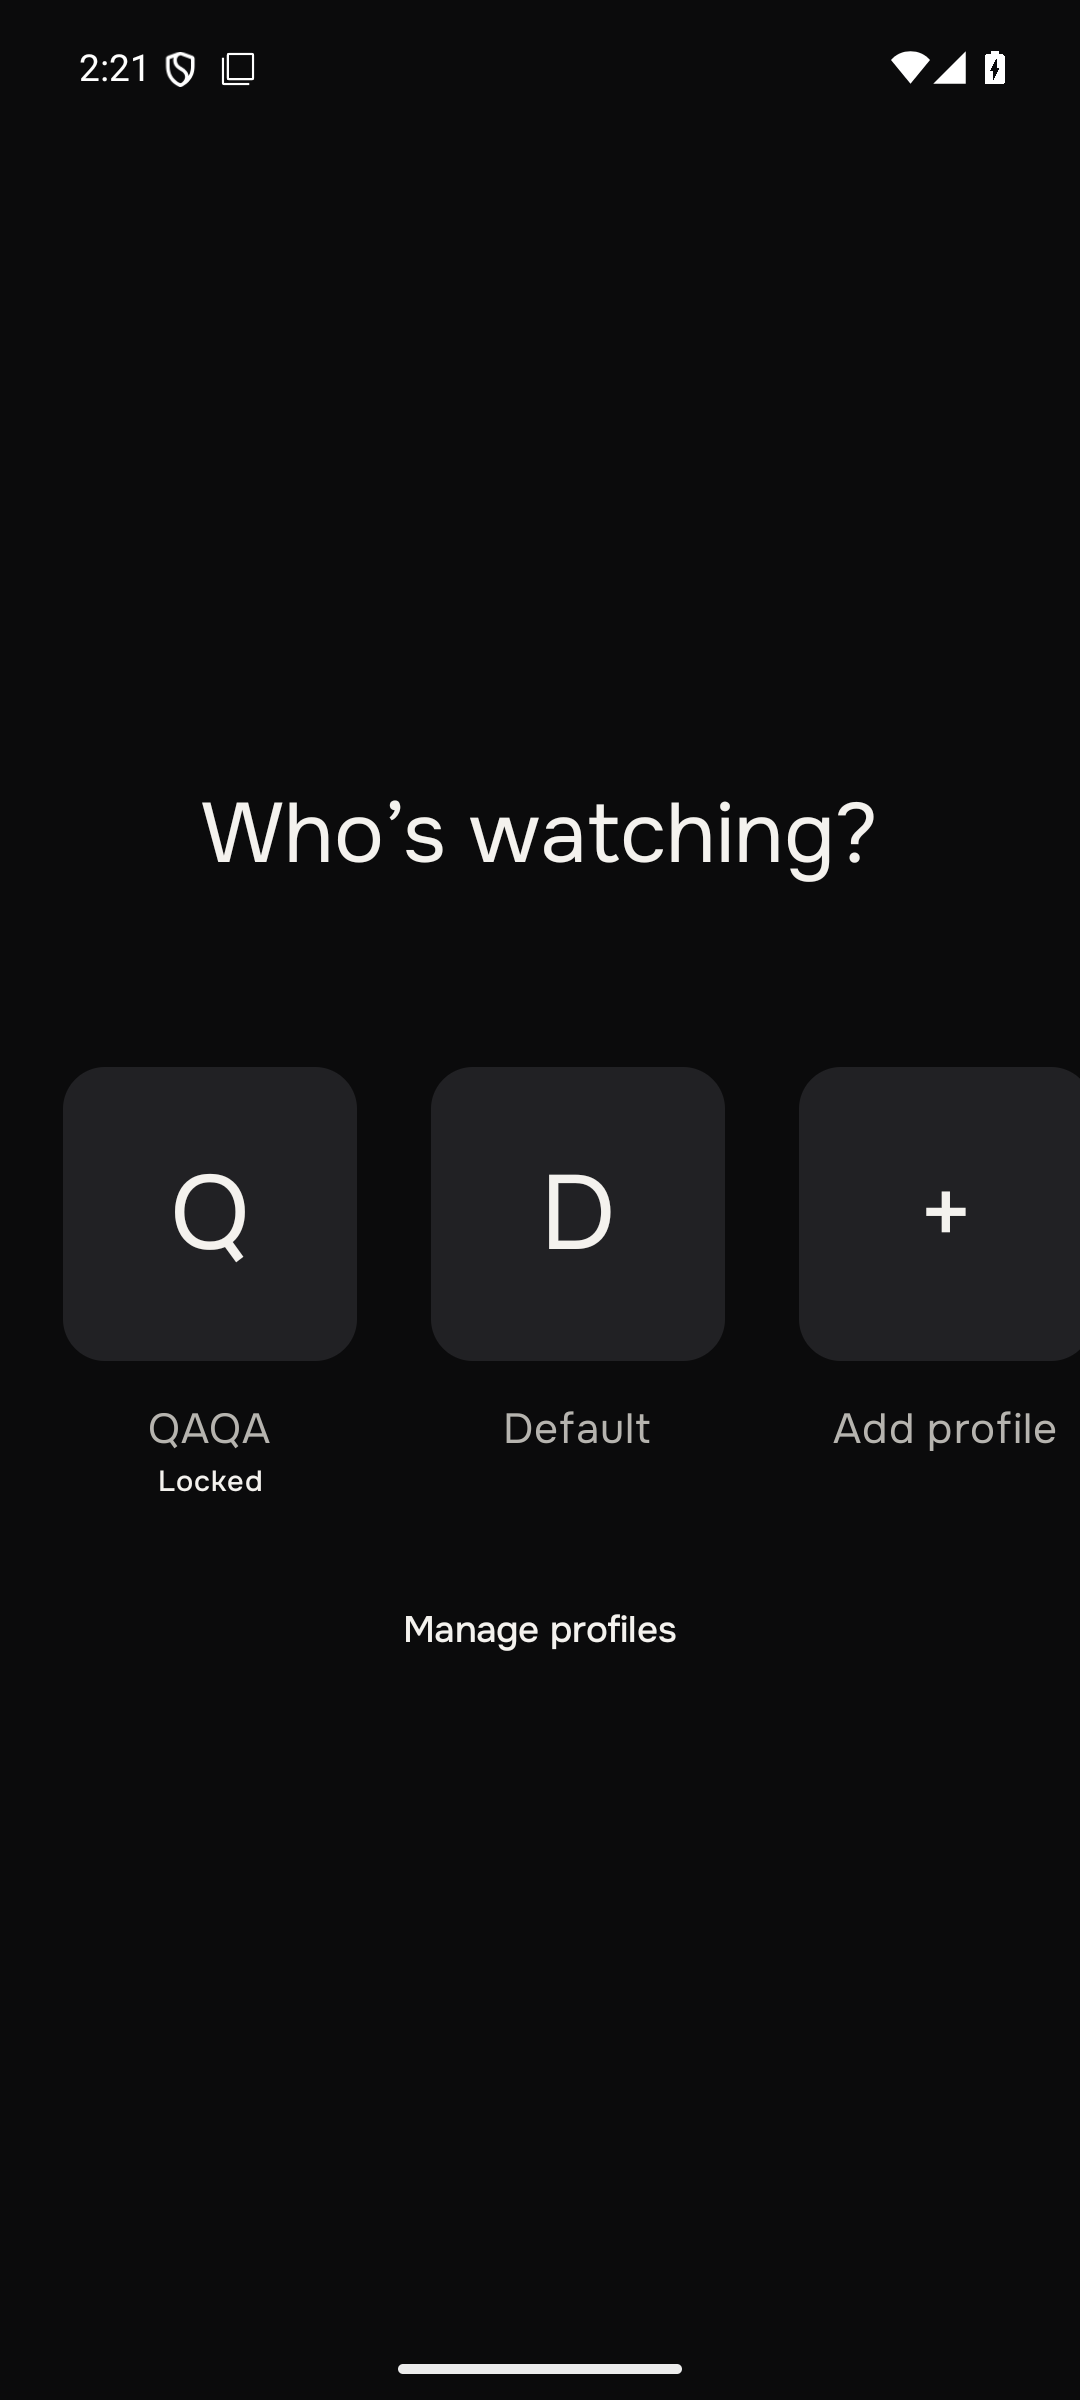
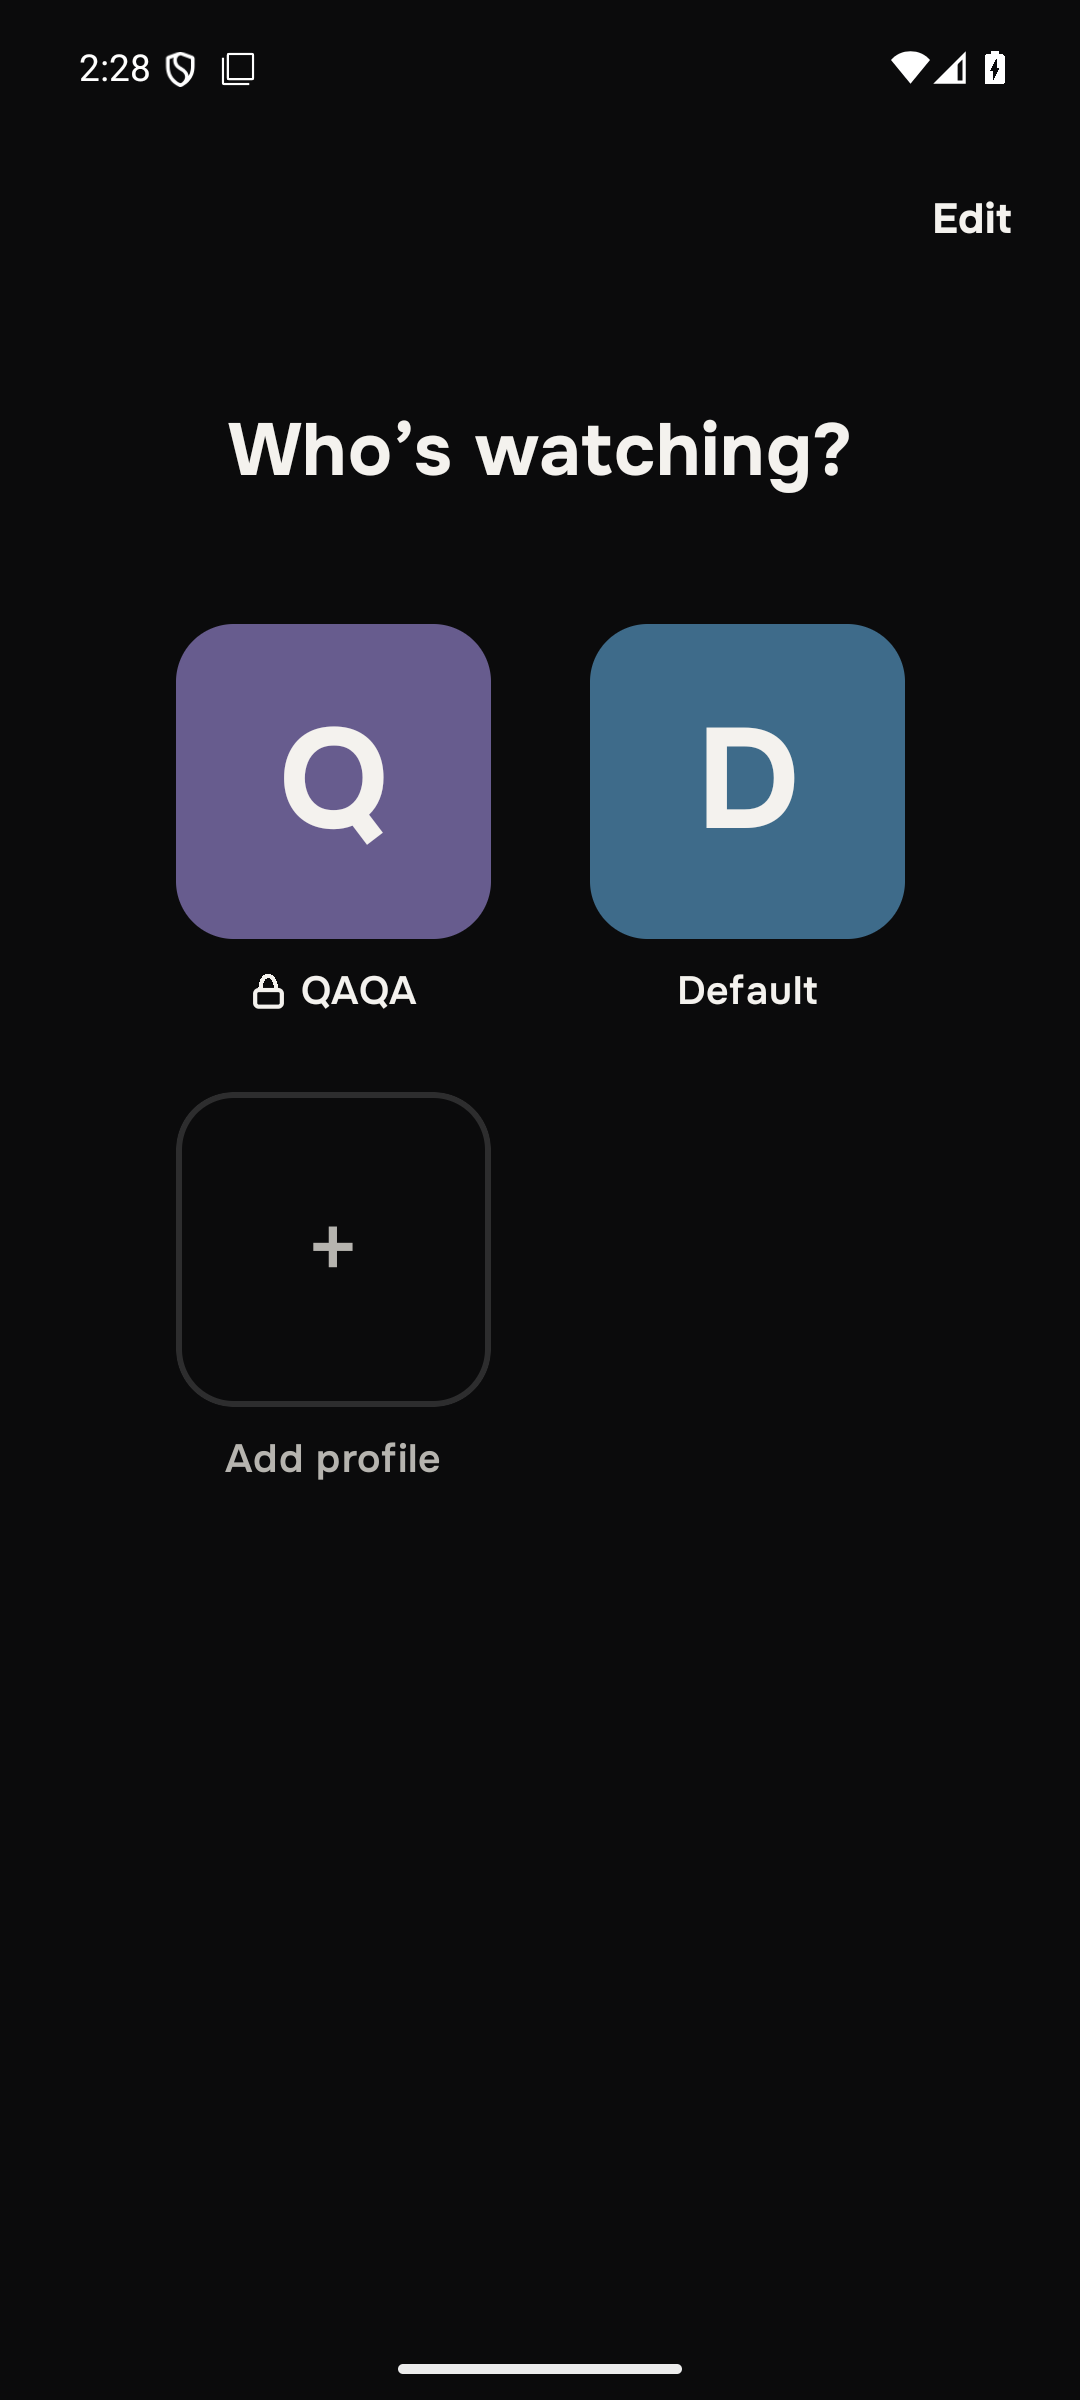
Match phone profile picker and PIN keypad layout

diff --git a/composeApp/src/commonMain/kotlin/org/viptv/app/features/entry/MobileProfiles.kt b/composeApp/src/commonMain/kotlin/org/viptv/app/features/entry/MobileProfiles.kt
@@ -1,0 +1,103 @@
+package org.viptv.app.features.entry
+
+import androidx.compose.foundation.BorderStroke
+import androidx.compose.foundation.Canvas
+import androidx.compose.foundation.background
+import androidx.compose.foundation.border
+import androidx.compose.foundation.clickable
+import androidx.compose.foundation.layout.*
+import androidx.compose.foundation.lazy.grid.GridCells
+import androidx.compose.foundation.lazy.grid.LazyVerticalGrid
+import androidx.compose.foundation.lazy.grid.items
+import androidx.compose.foundation.shape.RoundedCornerShape
+import androidx.compose.material3.MaterialTheme
+import androidx.compose.material3.Text
+import androidx.compose.material3.TextButton
+import androidx.compose.runtime.Composable
+import androidx.compose.ui.Alignment
+import androidx.compose.ui.Modifier
+import androidx.compose.ui.draw.clip
+import androidx.compose.ui.graphics.Color
+import androidx.compose.ui.graphics.drawscope.Stroke
+import androidx.compose.ui.geometry.Offset
+import androidx.compose.ui.geometry.Size
+import androidx.compose.ui.text.font.FontWeight
+import androidx.compose.ui.text.style.TextAlign
+import androidx.compose.ui.unit.dp
+import androidx.compose.ui.unit.sp
+import coil3.compose.AsyncImage
+import org.viptv.app.connection.Profile
+import org.viptv.app.theme.Palette
+
+@Composable
+internal fun MobileProfiles(
+    profiles: List<Profile>, busy: Boolean, error: String?, local: Boolean, managing: Boolean,
+    select: (String) -> Unit, edit: (String) -> Unit, manage: () -> Unit, done: () -> Unit,
+    add: () -> Unit,
+) {
+    Column(Modifier.fillMaxSize()) {
+        Row(Modifier.fillMaxWidth().height(62.dp).padding(horizontal = 12.dp), verticalAlignment = Alignment.CenterVertically) {
+            Spacer(Modifier.weight(1f))
+            if (local) TextButton(onClick = if (managing) done else manage, enabled = !busy) {
+                Text(if (managing) "Done" else "Edit", fontSize = 16.sp, fontWeight = FontWeight.Bold)
+            }
+        }
+        Spacer(Modifier.height(40.dp))
+        Text(if (managing) "Manage profiles" else "Who’s watching?", Modifier.fillMaxWidth(),
+            fontSize = 28.sp, lineHeight = 32.sp, fontWeight = FontWeight.Bold, textAlign = TextAlign.Center)
+        error?.let { Text(it, Modifier.fillMaxWidth().padding(top = 8.dp, start = 24.dp, end = 24.dp),
+            color = MaterialTheme.colorScheme.error, textAlign = TextAlign.Center) }
+        Spacer(Modifier.height(48.dp))
+        LazyVerticalGrid(GridCells.Fixed(2), Modifier.fillMaxSize().padding(horizontal = 48.dp),
+            verticalArrangement = Arrangement.spacedBy(28.dp), horizontalArrangement = Arrangement.Center,
+        ) {
+            items(profiles, key = { it.id }) { profile ->
+                MobileProfileTile(profile, busy) { if (managing) edit(profile.id) else select(profile.id) }
+            }
+            if (local && profiles.size < 12) item(key = "add") { AddProfileTile(busy, add) }
+        }
+    }
+}
+
+@Composable
+private fun MobileProfileTile(profile: Profile, busy: Boolean, open: () -> Unit) {
+    val palette = listOf(Color(0xFFC24E6B), Color(0xFF3E6B8A), Color(0xFF675C8E), Color(0xFF40766B))
+    val color = palette[(profile.id.hashCode() and Int.MAX_VALUE) % palette.size]
+    Column(Modifier.fillMaxWidth().clickable(enabled = !busy, onClick = open), horizontalAlignment = Alignment.CenterHorizontally) {
+        Box(Modifier.size(120.dp).clip(RoundedCornerShape(22.dp)).background(color), contentAlignment = Alignment.Center) {
+            if (profile.avatar != null) AsyncImage(profile.avatar, profile.name, Modifier.fillMaxSize())
+            else Text(profile.name.take(1).uppercase(), fontSize = 54.sp, fontWeight = FontWeight.Bold)
+        }
+        Spacer(Modifier.height(10.dp))
+        Row(verticalAlignment = Alignment.CenterVertically, horizontalArrangement = Arrangement.spacedBy(5.dp)) {
+            if (profile.locked) LockMark()
+            Text(profile.name, fontSize = 15.sp, lineHeight = 20.sp,
+                fontWeight = FontWeight.SemiBold, maxLines = 1, textAlign = TextAlign.Center)
+        }
+    }
+}
+
+@Composable
+private fun LockMark() {
+    Canvas(Modifier.size(14.dp)) {
+        val stroke = 1.6.dp.toPx()
+        drawRoundRect(Palette.text, topLeft = Offset(size.width * .14f, size.height * .46f),
+            size = Size(size.width * .72f, size.height * .45f),
+            cornerRadius = androidx.compose.ui.geometry.CornerRadius(size.width * .1f), style = Stroke(stroke))
+        drawArc(Palette.text, 180f, 180f, useCenter = false,
+            topLeft = Offset(size.width * .29f, size.height * .08f),
+            size = Size(size.width * .42f, size.height * .68f), style = Stroke(stroke))
+    }
+}
+
+@Composable
+private fun AddProfileTile(busy: Boolean, add: () -> Unit) {
+    Column(Modifier.fillMaxWidth().clickable(enabled = !busy, onClick = add), horizontalAlignment = Alignment.CenterHorizontally) {
+        Box(Modifier.size(120.dp).clip(RoundedCornerShape(22.dp))
+            .border(BorderStroke(2.dp, Color.White.copy(alpha = 0.14f)), RoundedCornerShape(22.dp)), contentAlignment = Alignment.Center) {
+            Text("+", color = Palette.secondary, fontSize = 40.sp)
+        }
+        Spacer(Modifier.height(10.dp))
+        Text("Add profile", color = Palette.secondary, fontSize = 15.sp, lineHeight = 20.sp, fontWeight = FontWeight.SemiBold)
+    }
+}

diff --git a/composeApp/src/commonMain/kotlin/org/viptv/app/features/entry/MobilePinScreen.kt b/composeApp/src/commonMain/kotlin/org/viptv/app/features/entry/MobilePinScreen.kt
@@ -1,0 +1,85 @@
+package org.viptv.app.features.entry
+
+import androidx.compose.foundation.background
+import androidx.compose.foundation.border
+import androidx.compose.foundation.clickable
+import androidx.compose.foundation.layout.*
+import androidx.compose.foundation.rememberScrollState
+import androidx.compose.foundation.shape.CircleShape
+import androidx.compose.foundation.shape.RoundedCornerShape
+import androidx.compose.foundation.verticalScroll
+import androidx.compose.material3.AlertDialog
+import androidx.compose.material3.MaterialTheme
+import androidx.compose.material3.Text
+import androidx.compose.material3.TextButton
+import androidx.compose.runtime.*
+import androidx.compose.ui.Alignment
+import androidx.compose.ui.Modifier
+import androidx.compose.ui.draw.clip
+import androidx.compose.ui.graphics.Color
+import androidx.compose.ui.text.font.FontWeight
+import androidx.compose.ui.text.style.TextAlign
+import androidx.compose.ui.unit.dp
+import androidx.compose.ui.unit.sp
+import org.viptv.app.connection.Profile
+import org.viptv.app.theme.Palette
+
+private val keyLabels = listOf(
+    listOf("1" to "", "2" to "ABC", "3" to "DEF"),
+    listOf("4" to "GHI", "5" to "JKL", "6" to "MNO"),
+    listOf("7" to "PQRS", "8" to "TUV", "9" to "WXYZ"),
+    listOf("OK" to "", "0" to "", "⌫" to ""),
+)
+
+@Composable
+internal fun MobilePinScreen(
+    profile: Profile?, pin: String, busy: Boolean, error: String?,
+    digit: (String) -> Unit, erase: () -> Unit, submit: () -> Unit, back: () -> Unit,
+) {
+    var forgot by remember { mutableStateOf(false) }
+    Column(Modifier.fillMaxSize().verticalScroll(rememberScrollState()), horizontalAlignment = Alignment.CenterHorizontally) {
+        Row(Modifier.fillMaxWidth().height(48.dp).padding(horizontal = 16.dp), verticalAlignment = Alignment.CenterVertically) {
+            Text("×", Modifier.clickable(onClick = back).padding(horizontal = 8.dp), fontSize = 30.sp)
+        }
+        Spacer(Modifier.height(16.dp))
+        Box(Modifier.size(72.dp).clip(RoundedCornerShape(16.dp)).background(Color(0xFFC24E6B)), contentAlignment = Alignment.Center) {
+            Text(profile?.name?.take(1)?.uppercase().orEmpty(), fontSize = 38.sp, fontWeight = FontWeight.Bold)
+        }
+        Spacer(Modifier.height(40.dp))
+        Text("Enter ${profile?.name.orEmpty()}’s PIN", fontSize = 22.sp, fontWeight = FontWeight.Bold)
+        Spacer(Modifier.height(18.dp))
+        Row(horizontalArrangement = Arrangement.spacedBy(16.dp)) {
+            repeat(maxOf(4, pin.length)) { index ->
+                Box(Modifier.size(16.dp).clip(CircleShape)
+                    .background(if (index < pin.length) Palette.text else Color.Transparent)
+                    .then(if (index >= pin.length) Modifier.border(2.dp, Palette.secondary, CircleShape) else Modifier))
+            }
+        }
+        error?.let { Text(it, Modifier.padding(top = 12.dp, start = 24.dp, end = 24.dp),
+            color = MaterialTheme.colorScheme.error, textAlign = TextAlign.Center) }
+        Spacer(Modifier.height(if (error == null) 120.dp else 32.dp))
+        keyLabels.forEach { row ->
+            Row(horizontalArrangement = Arrangement.spacedBy(25.dp)) {
+                row.forEach { (value, letters) ->
+                    val enabled = !busy && (value != "OK" || pin.length in 4..8)
+                    Box(Modifier.size(78.dp).clip(CircleShape)
+                        .background(if (value == "⌫" || value == "OK") Color.Transparent else Color(0xFF222224))
+                        .clickable(enabled = enabled) { when (value) { "⌫" -> erase(); "OK" -> submit(); else -> digit(value) } },
+                        contentAlignment = Alignment.Center) {
+                        Column(horizontalAlignment = Alignment.CenterHorizontally) {
+                            Text(value, fontSize = if (value == "OK") 17.sp else 30.sp,
+                                color = if (enabled) Palette.text else Palette.secondary, lineHeight = 32.sp)
+                            if (letters.isNotEmpty()) Text(letters, fontSize = 9.sp, fontWeight = FontWeight.Bold,
+                                letterSpacing = 1.sp, lineHeight = 10.sp)
+                        }
+                    }
+                }
+            }
+            Spacer(Modifier.height(16.dp))
+        }
+        TextButton(onClick = { forgot = true }) { Text("Forgot PIN?", fontSize = 15.sp) }
+    }
+    if (forgot) AlertDialog(onDismissRequest = { forgot = false }, title = { Text("Local profile PIN") },
+        text = { Text("This device’s profile PIN cannot be recovered in the app. The device owner can clear app data, which also removes local profiles and settings.") },
+        confirmButton = { TextButton(onClick = { forgot = false }) { Text("OK") } })
+}

diff --git a/composeApp/src/commonMain/kotlin/org/viptv/app/features/entry/ProfilePinScreen.kt b/composeApp/src/commonMain/kotlin/org/viptv/app/features/entry/ProfilePinScreen.kt
@@ -7,12 +7,18 @@ import androidx.compose.ui.Alignment
 import androidx.compose.ui.Modifier
 import androidx.compose.ui.text.input.PasswordVisualTransformation
 import androidx.compose.ui.unit.dp
+import org.viptv.app.connection.Profile
 
 @Composable
-fun ProfilePinScreen(name: String, busy: Boolean, error: String?, submit: (String) -> Unit, back: () -> Unit) {
-    var pin by remember(name) { mutableStateOf("") }
+fun ProfilePinScreen(profile: Profile?, compact: Boolean, busy: Boolean, error: String?, submit: (String) -> Unit, back: () -> Unit) {
+    var pin by remember(profile?.id) { mutableStateOf("") }
+    if (compact) {
+        MobilePinScreen(profile, pin, busy, error, { digit -> if (pin.length < 8) pin += digit },
+            { pin = pin.dropLast(1) }, { if (pin.length in 4..8) { submit(pin); pin = "" } }, back)
+        return
+    }
     Column(Modifier.fillMaxSize().padding(24.dp), verticalArrangement = Arrangement.Center, horizontalAlignment = Alignment.CenterHorizontally) {
-        Text("Enter $name’s PIN", style = MaterialTheme.typography.headlineLarge)
+        Text("Enter ${profile?.name.orEmpty()}’s PIN", style = MaterialTheme.typography.headlineLarge)
         Spacer(Modifier.height(24.dp))
         OutlinedTextField(pin, { if (it.length <= 8 && it.all(Char::isDigit)) pin = it },
             label = { Text("PIN") }, visualTransformation = PasswordVisualTransformation(), singleLine = true)

diff --git a/composeApp/src/commonMain/kotlin/org/viptv/app/App.kt b/composeApp/src/commonMain/kotlin/org/viptv/app/App.kt
@@ -31,9 +31,9 @@ fun App(television: Boolean = false, browser: Boolean = false, localDatabase: St
             val compact = maxWidth < 640.dp && !television
             when (state.screen) {
                 Screen.Connect -> ConnectScreen(browser, browserOrigin() ?: "", state.busy, state.error, localDatabase?.let { { controller.useLocal(it) } }, controller::connect)
-                Screen.Profiles -> ProfilesScreen(state.profiles, state.busy, state.error, state.localMode, state.managingProfiles,
+                Screen.Profiles -> ProfilesScreen(state.profiles, state.busy, state.error, state.localMode, state.managingProfiles, compact,
                     controller::selectProfile, controller::editProfile, controller::manageProfiles, controller::stopManagingProfiles, controller::createProfile)
-                Screen.ProfilePin -> ProfilePinScreen(state.profiles.find { it.id == state.profileToOpen }?.name.orEmpty(),
+                Screen.ProfilePin -> ProfilePinScreen(state.profiles.find { it.id == state.profileToOpen }, compact,
                     state.busy, state.error, controller::submitProfilePin) { controller.navigate(Screen.Profiles) }
                 Screen.ProfileEdit -> ProfileEditScreen(state.profiles.find { it.id == state.profileToEdit }, state.profiles.size,
                     state.busy, state.error, { controller.navigate(Screen.Profiles) }, controller::renameProfile,

diff --git a/composeApp/src/commonMain/kotlin/org/viptv/app/features/entry/ProfilesScreen.kt b/composeApp/src/commonMain/kotlin/org/viptv/app/features/entry/ProfilesScreen.kt
@@ -18,12 +18,14 @@ import org.viptv.app.theme.Palette
 
 @Composable
 fun ProfilesScreen(
-    profiles: List<Profile>, busy: Boolean, error: String?, local: Boolean, managing: Boolean,
+    profiles: List<Profile>, busy: Boolean, error: String?, local: Boolean, managing: Boolean, compact: Boolean,
     select: (String) -> Unit, edit: (String) -> Unit, manage: () -> Unit, done: () -> Unit,
     create: (String) -> Unit,
 ) {
     var adding by remember { mutableStateOf(false) }
     var name by remember { mutableStateOf("") }
+    if (compact) MobileProfiles(profiles, busy, error, local, managing, select, edit, manage, done) { adding = true }
+    else
     Column(Modifier.fillMaxSize(), verticalArrangement = Arrangement.Center, horizontalAlignment = Alignment.CenterHorizontally) {
         Text(if (managing) "Manage profiles" else "Who’s watching?", style = MaterialTheme.typography.headlineLarge)
         Spacer(Modifier.height(44.dp))

diff --git a/docs/DESIGN_GAPS.md b/docs/DESIGN_GAPS.md
@@ -10,6 +10,8 @@
 | GAP-006 | Local add-on removal | No matching confirmation board in the current set | Provisional confirmation in `features/settings/SettingsScreen.kt`; settings capture `docs/provisional/addon-settings-android.png` |
 | GAP-007 | Local History clear confirmation | Current History boards show Clear without its confirmation state | Provisional confirmation in `features/history/HistoryScreen.kt` |
 | GAP-008 | Local profile creation dialog | Current profile picker shows Add profile, but no local creation form | Provisional dialog in `features/entry/ProfilesScreen.kt`; capture `docs/evidence/android-profiles.png` |
+| GAP-009 | Confirming a 5–8 digit local PIN | The supplied phone PIN keypad has four indicators and no confirmation key | Provisional OK key in `features/entry/MobilePinScreen.kt`; capture `docs/evidence/android-profile-pin.png` |
+| GAP-010 | Local forgotten-PIN explanation | The supplied PIN board has Forgot PIN? without a local recovery state | Provisional explanation in `features/entry/MobilePinScreen.kt`; no credential recovery or reset flow |
 
 Each implemented provisional surface will include its source location and a review capture. No provisional surface is recorded as supplied-design parity.
 

diff --git a/docs/STATUS.md b/docs/STATUS.md
@@ -45,3 +45,5 @@ A local Flower playback position was saved through KitePlayer into the shared Ru
 ## Local profile checkpoint
 
 `docs/evidence/android-profiles.png`, `docs/evidence/android-profile-pin.png`, and `docs/evidence/android-profile-edit.png` record the Android QA flow. The picker and PIN/edit screens remain in progress against their current design boards. Avatar selection, maturity controls, playback preferences, language, TV keypad behavior, and PIN recovery have not been implemented. A local profile-creation dialog is tracked in `DESIGN_GAPS.md` because the supplied boards do not show that form.
+
+The phone picker now uses a two-column grid and top Edit control matching the supplied board geometry. The phone PIN screen places the avatar, indicators and keypad at approximately the supplied positions; touch entry and unlock passed on the QA emulator. Its extra OK key supports the engine's 4–8 digit PIN range and is tracked as a provisional difference. These screens have not passed 1:1 visual certification.
